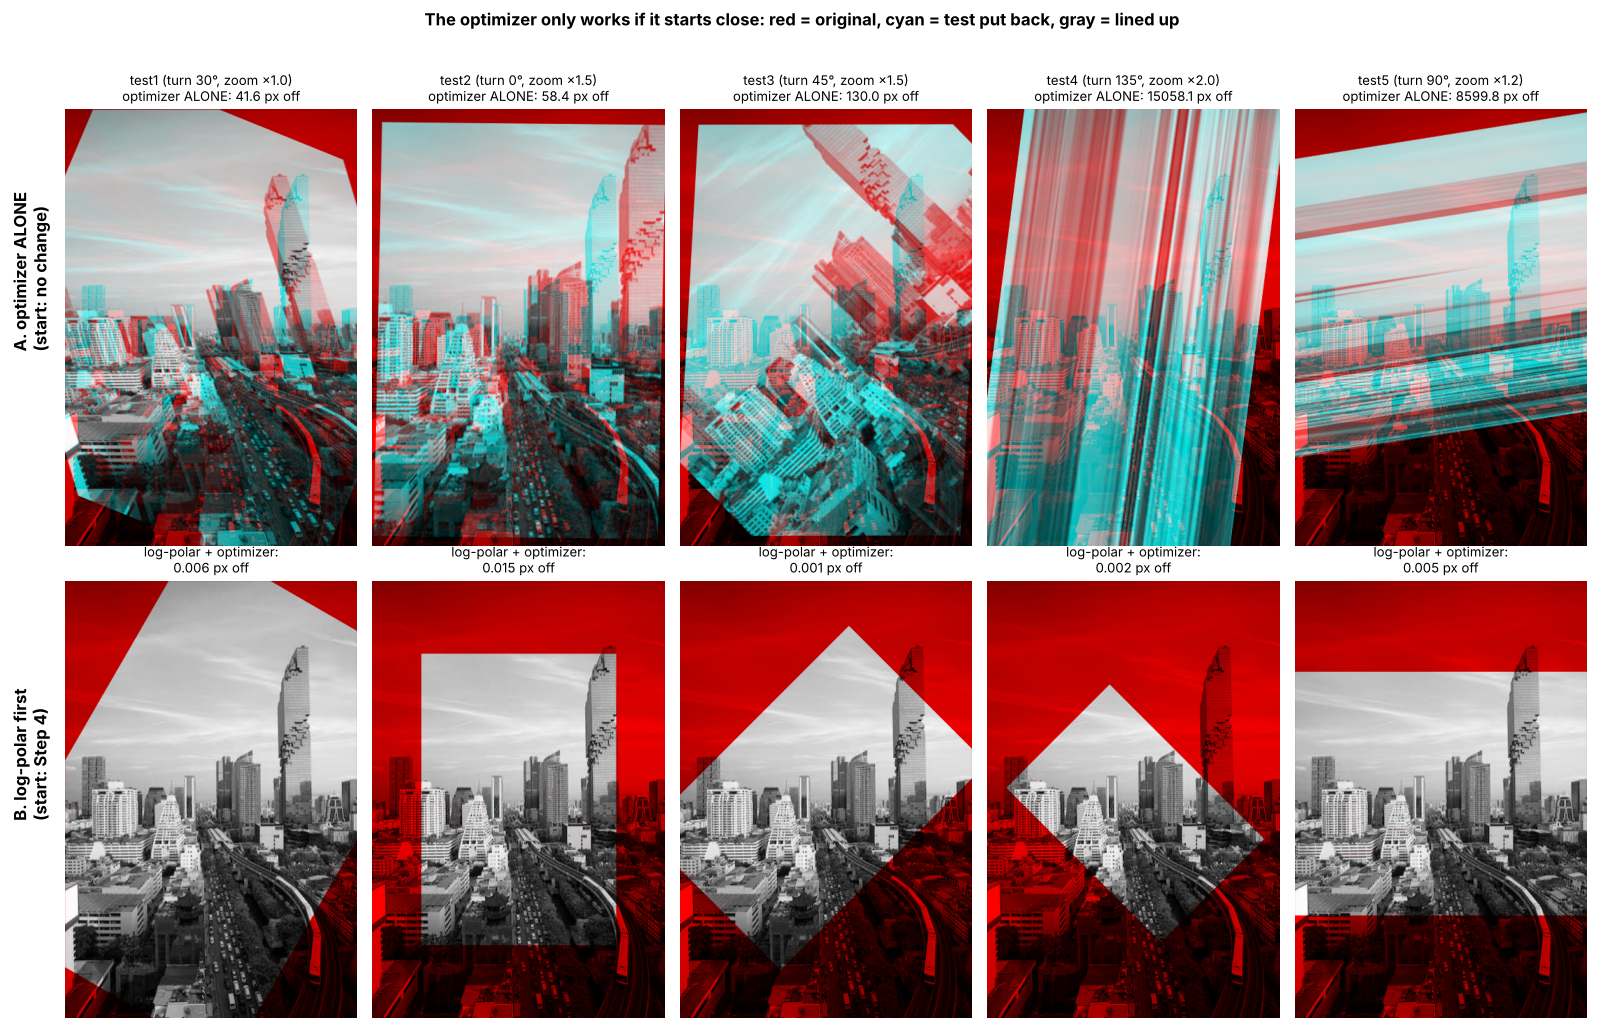
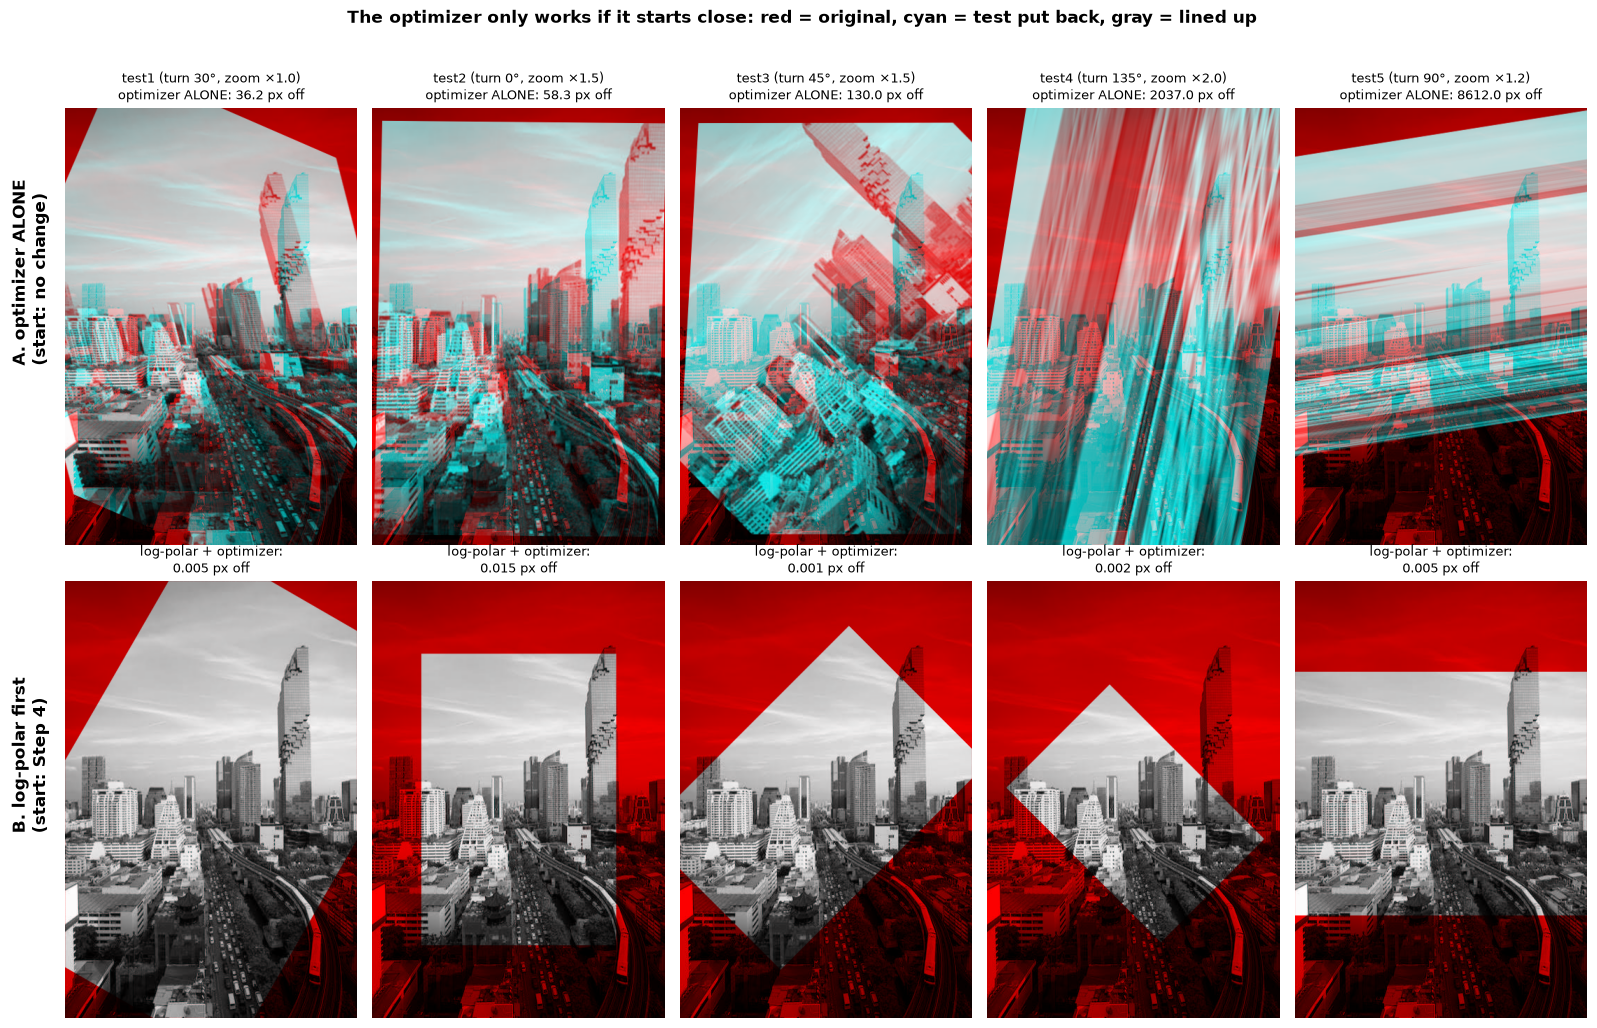
Explain the optimizer with a picture (Q27)

diff --git a/explanations/make_optimizer_explained.py b/explanations/make_optimizer_explained.py
@@ -1,0 +1,81 @@
+"""
+Picture that explains the optimizer (Step 6) simply:
+  1-2: what "blurry photo" means (BOTH photos are blurred the same way)
+  3:   the "hill" for test1: brightness difference when only the TURN knob changes.
+       Sharp photos: a bumpy hill with a small dip right next to "no change" -> the optimizer
+       gets stuck there. Blurry photos: one smooth valley -> easy to walk down.
+Run from the main folder:  python explanations/make_optimizer_explained.py
+Output: explanations/optimizer_explained.png
+"""
+import os
+import sys
+
+import cv2
+import matplotlib
+matplotlib.use("Agg")
+import matplotlib.pyplot as plt
+import numpy as np
+
+HERE = os.path.dirname(os.path.abspath(__file__))
+ROOT = os.path.abspath(os.path.join(HERE, ".."))
+os.chdir(ROOT)
+sys.path.insert(0, ROOT)
+import step6_optimizer as s6
+
+
+def hill(o, t, sigma, angles):
+    """Average (brightness difference)^2 for each turn, zoom and move kept right (test1)."""
+    h, w = o.shape
+    ob, tb = cv2.GaussianBlur(o, (0, 0), sigma), cv2.GaussianBlur(t, (0, 0), sigma)
+    vals = []
+    for a in angles:
+        m = s6.make_matrix(w, h, a, 1.0, 0, 0)
+        back = s6.undo(tb, m, w, h)
+        seen = s6.undo((t > 0).astype(np.float32), m, w, h) > 0.99
+        vals.append(float(np.mean((back[seen] - ob[seen]) ** 2)))
+    return np.array(vals)
+
+
+def main():
+    o = cv2.imread("images/original.jpg", cv2.IMREAD_GRAYSCALE).astype(np.float32)
+    t = cv2.imread("images/generated/test1.png", cv2.IMREAD_GRAYSCALE).astype(np.float32)
+    angles = np.arange(-90, 121, 1.0)
+    sharp, blurry = hill(o, t, 0.5, angles), hill(o, t, 4.0, angles)
+
+    fig = plt.figure(figsize=(16, 8))
+    g = fig.add_gridspec(2, 2, width_ratios=[1, 2.3], hspace=0.25, wspace=0.28)
+    crop = (slice(330, 520), slice(60, 330))
+    a0, a1, a2 = fig.add_subplot(g[0, 0]), fig.add_subplot(g[1, 0]), fig.add_subplot(g[:, 1])
+    a0.imshow(cv2.GaussianBlur(o, (0, 0), 0.5)[crop], cmap="gray")
+    a0.set_title("1. SHARP photo\n(thin edges, small windows)", fontsize=11)
+    a1.imshow(cv2.GaussianBlur(o, (0, 0), 4.0)[crop], cmap="gray")
+    a1.set_title("2. Same photo, BLURRED (blur 4)\nBOTH photos get blurred the same way", fontsize=11)
+    for a in (a0, a1):
+        a.axis("off")
+
+    a2.plot(angles, sharp, color="#8a8a8a", lw=2, label="sharp photos (blur 0.5)")
+    a2.plot(angles, blurry, color="#2a78d6", lw=2.5, label="blurry photos (blur 4)")
+    i0 = int(np.where(angles == -1)[0][0])
+    a2.annotate("small dip next to the start:\nwith SHARP photos the\noptimizer gets STUCK here",
+                xy=(-1, sharp[i0]), xytext=(-95, 1500), fontsize=10.5,
+                arrowprops=dict(arrowstyle="-|>", color="#555"))
+    a2.axvline(0, color="#e34948", ls="--", lw=1.5)
+    a2.text(-3, 1150, "start of optimizer ALONE\n(\"no change\" = 0°)", color="#e34948", fontsize=10.5, va="top", ha="right")
+    a2.axvline(30, color="#1baf7a", ls="--", lw=1.5)
+    a2.text(50, 700, "right answer: 30°\n(Step 4 starts HERE,\nalready at the bottom)", color="#1baf7a", fontsize=10.5)
+    a2.set_xlabel("turn knob (degrees)   — zoom and move kept right", fontsize=11)
+    a2.set_ylabel("brightness difference\n(lower = better match)", fontsize=11)
+    a2.set_title("3. The \"hill\" for test1 (true turn 30°): the optimizer walks DOWNHILL", fontsize=11)
+    a2.legend(frameon=False, loc="lower left", fontsize=10.5)
+    a2.spines[["top", "right"]].set_visible(False)
+    a2.set_ylim(0, 4800)
+
+    fig.suptitle("The optimizer only compares brightness numbers.  Blurry photos make the hill smooth, "
+                 "so it doesn't get stuck in small dips.", fontsize=13, fontweight="bold")
+    out = os.path.join(HERE, "optimizer_explained.png")
+    plt.savefig(out, dpi=95, bbox_inches="tight")
+    print("Saved", out)
+
+
+if __name__ == "__main__":
+    main()

diff --git a/QUESTIONS_AND_ANSWERS.md b/QUESTIONS_AND_ANSWERS.md
@@ -560,3 +560,19 @@ Picture: `explanations/step3_vs_step4.png`.
 - Phase correlation alone was enough for my 5 tests (old version); for the hard tests it missed B2
   (sky) and cross-correlation alone missed B1 and B3; both together found all 13.
 
+## Q27. How does the optimizer work? What does "blurry first" mean? Why does it fail alone?
+Picture: `explanations/optimizer_explained.png`.
+- **How it works:** put the test photo back with the current 6 knobs, then for EVERY pixel subtract
+  brightness (original − test, numbers 0–255), square, average. It does NOT know sky or building –
+  only numbers. It nudges each knob a tiny bit to feel which way makes the difference smaller (downhill),
+  takes a step, repeats, stops when no step helps.
+- **Blurry:** BOTH photos (original and test) are blurred the same way (`cv2.GaussianBlur`), first
+  blur 4, then 2, 1, 0.5. Sharp photos make a bumpy hill with small dips (thin edges only line up at
+  exactly the right place); test1: a small dip at −1°, right next to the "no change" start → stuck.
+  Blurry photos make one smooth valley → no small dips; then sharper photos make the bottom exact.
+- **Why it fails alone:** it only feels the slope right where it stands; it can't see or jump to the
+  right valley. From "no change" it is far from the answer (30°–135°) with all 6 knobs wrong at once,
+  so it walks into a WRONG valley – e.g. it stretched test4/test5 into blurry stripes, because a smooth
+  smear has a smaller brightness difference than a wrong sharp photo. Lost on 5/5 tests
+  (`step9_optimizer_alone.py`). Step 4 starts it at the bottom of the right valley.
+
